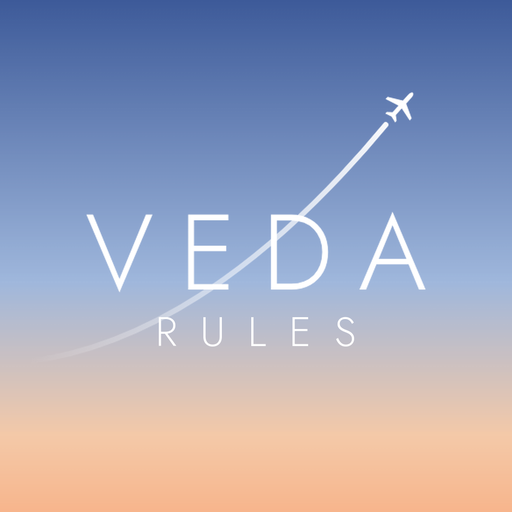
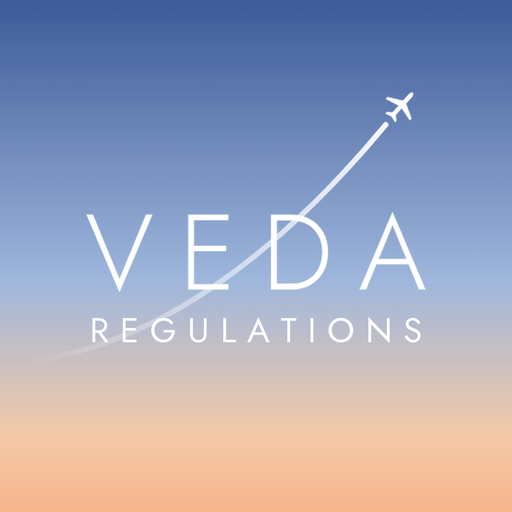
아이콘 글자를 VEDA REGULATIONS로 변경

Changed region(s): [[0.1562, 0.5938, 0.5312, 0.6875], [0.5625, 0.5938, 0.6875, 0.6875], [0.7188, 0.625, 0.8438, 0.6875]]

diff --git a/site/index.html b/site/index.html
@@ -7,8 +7,8 @@
 <meta name="description" content="인천국제공항공사 최신 내부규정 키워드 검색">
 <meta name="theme-color" content="#007f84">
 <link rel="manifest" href="manifest.webmanifest">
-<link rel="icon" href="favicon.png?v=24" type="image/png">
-<link rel="apple-touch-icon" href="icon-192.png?v=24">
+<link rel="icon" href="favicon.png?v=25" type="image/png">
+<link rel="apple-touch-icon" href="icon-192.png?v=25">
 <link rel="stylesheet" href="style.css?v=23">
 </head>
 <body>
